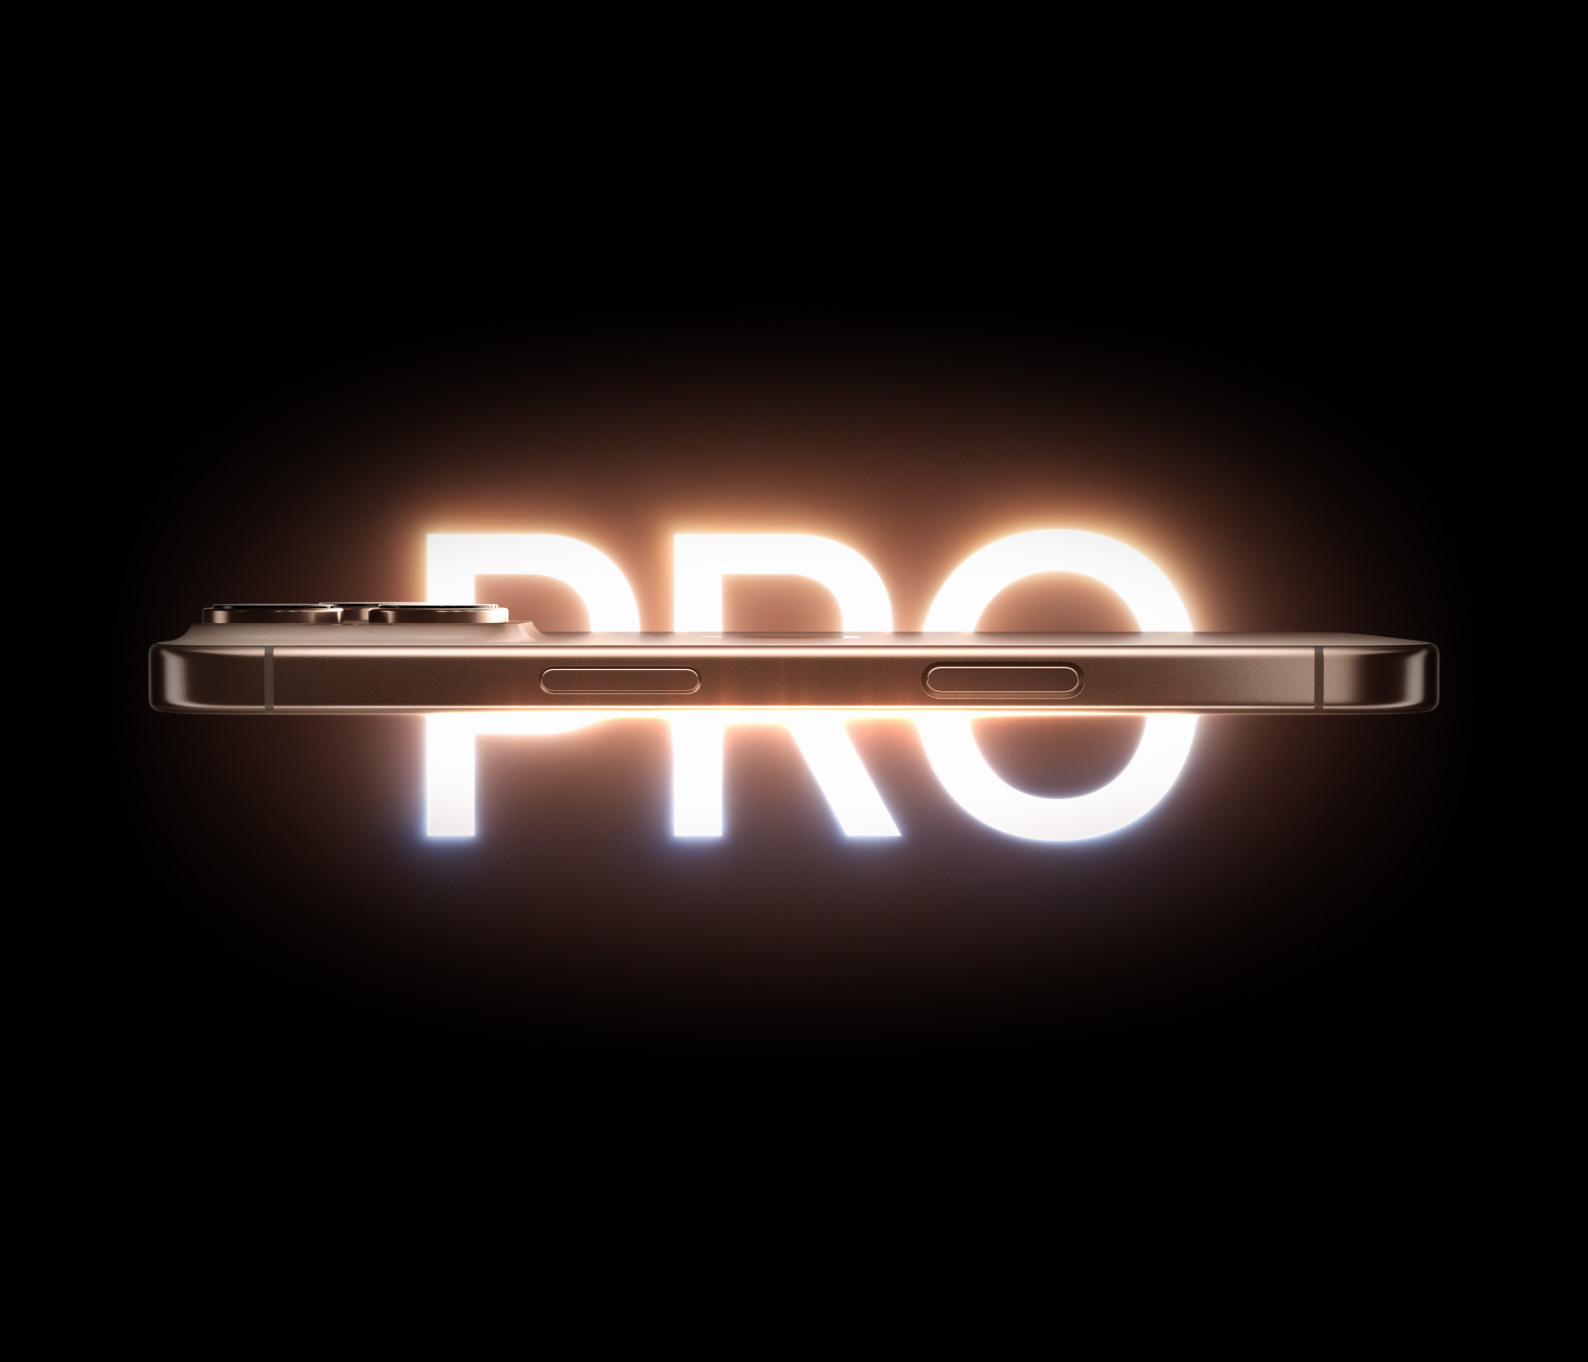
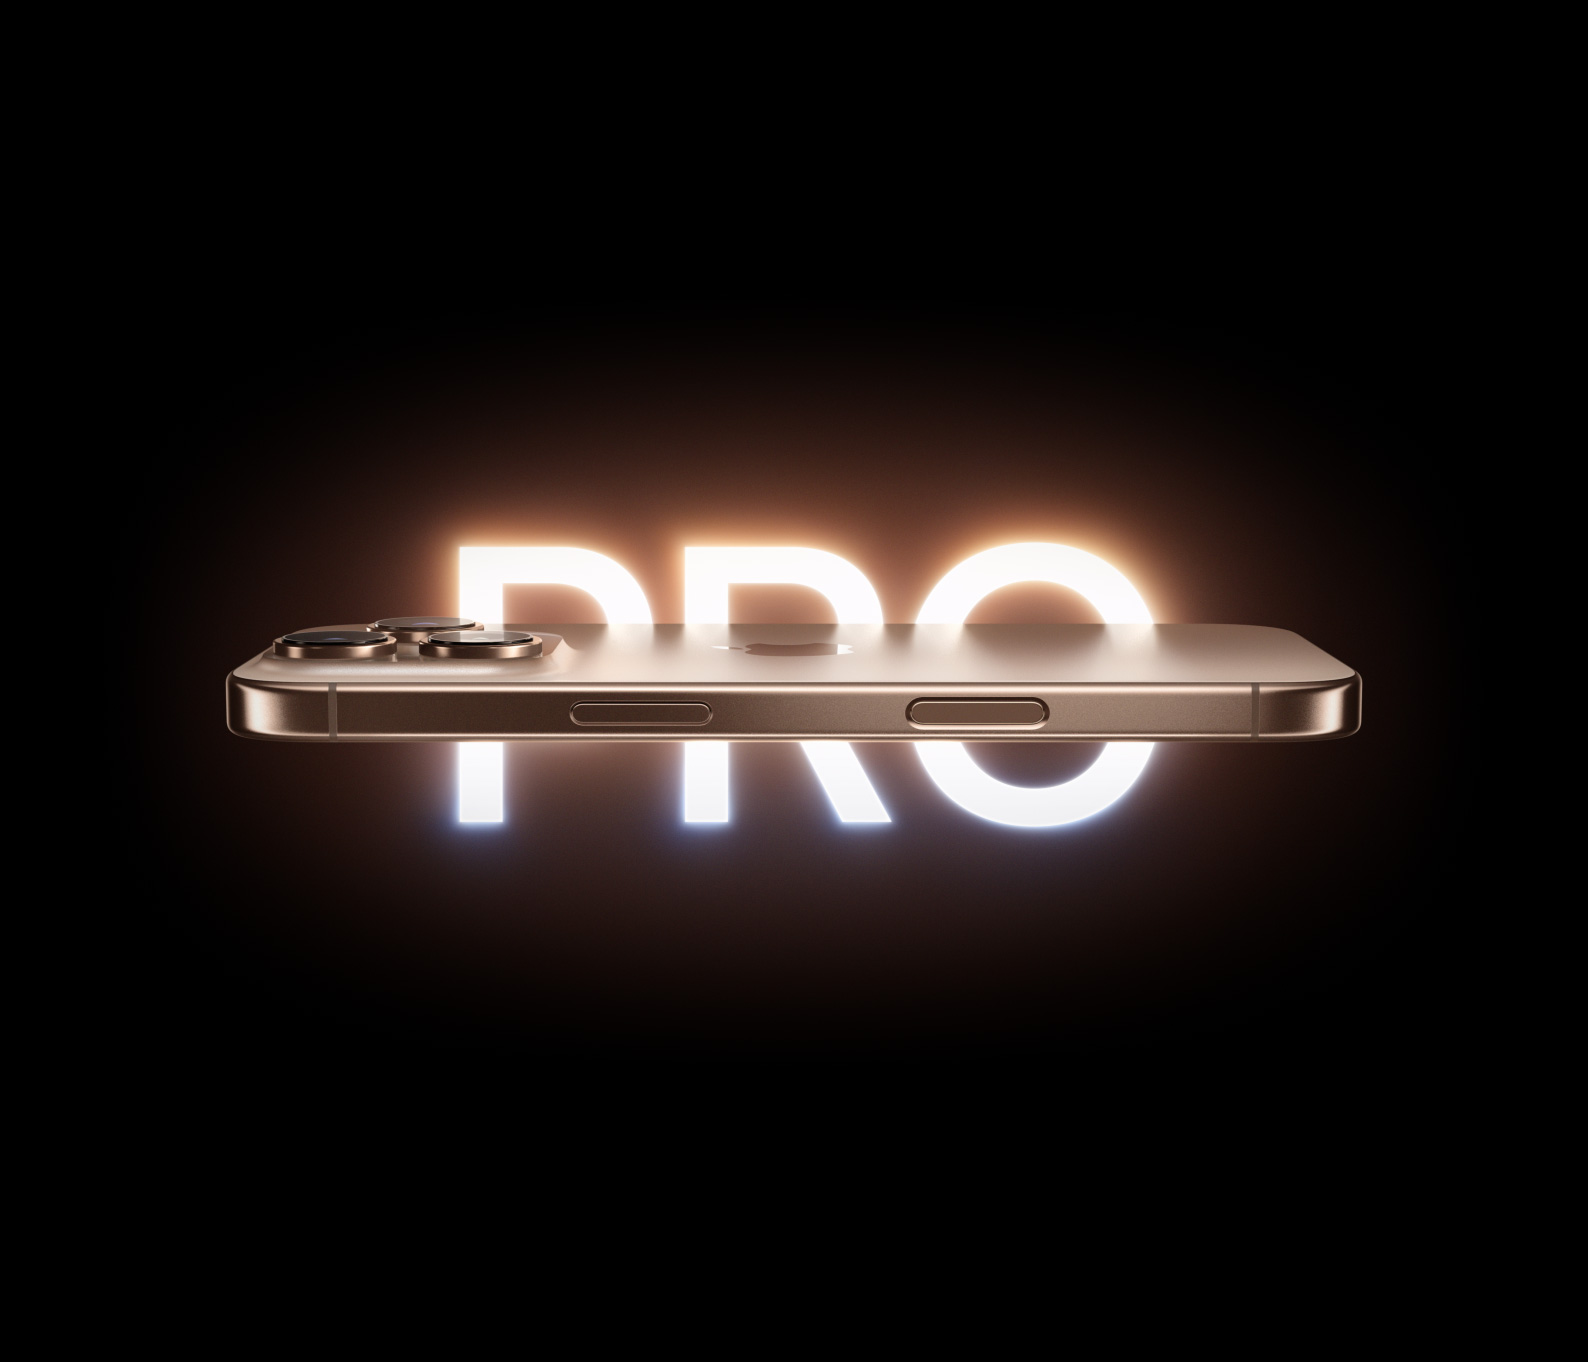
feat: hero section for product's detail

Changed region(s): [[0.0926, 0.3392, 0.9257, 0.6476]]

diff --git a/client/src/components/product/heroProduct.tsx b/client/src/components/product/heroProduct.tsx
@@ -1,0 +1,255 @@
+import type { ProductHeroProps } from "../../types/interface";
+import { useState, useEffect } from "react";
+
+const IPhone16 = ({
+  heroImg,
+  textImg,
+  heroImgSmall,
+  textImgSmall,
+}: {
+  heroImg: string;
+  textImg: string;
+  heroImgSmall: string;
+  textImgSmall: string;
+}) => {
+  const [heroImgSrc, setHeroImgSrc] = useState(
+    window.innerWidth > 640 ? heroImg : heroImgSmall
+  );
+  const [textImgSrc, setTextImgSrc] = useState(
+    window.innerWidth > 640 ? textImg : textImgSmall
+  );
+
+  useEffect(() => {
+    const handleResize = () => {
+      setHeroImgSrc(window.innerWidth > 640 ? heroImg : heroImgSmall);
+      setTextImgSrc(window.innerWidth > 640 ? textImg : textImgSmall);
+    };
+    window.addEventListener("resize", handleResize);
+    return () => {
+      window.removeEventListener("resize", handleResize);
+    };
+  }, []);
+
+  return (
+    <div
+      className="flex flex-col items-center justify-center w-full min-h-screen relative overflow-hidden"
+      style={{
+        backgroundImage:
+          "linear-gradient(rgb(12, 18, 71), rgb(40, 51, 125) 28%, rgb(80, 93, 173) 46%, rgb(125, 142, 209) 60%, rgb(174, 188, 230) 75%, rgb(239, 236, 255) 90%, rgb(255, 255, 255))",
+      }}
+    >
+      <div className="flex flex-col items-center justify-start w-full h-full relative pt-16 md:pt-24">
+        <div className="w-full flex justify-center">
+          <h1 className="text-2xl md:text-3xl lg:text-4xl text-white font-semibold absolute top-[-20px] z-10">
+            iPhone 16
+          </h1>
+
+          <img
+            src={textImgSrc}
+            alt="iPhone 16 Text"
+            className="w-[80%] sm:w-[70%] md:w-[60%] lg:w-[50%] max-w-[700px] absolute top-[-10px] z-10"
+          />
+
+          <img
+            src={heroImgSrc}
+            alt="iPhone 16 Hero"
+            className="w-[90%] sm:w-[85%] md:w-[75%] lg:w-[65%] max-w-[1200px] relative z-0"
+          />
+        </div>
+
+        <div className="flex flex-col items-center space-y-4 md:space-y-6 mt-4 md:mt-8">
+          <button className="bg-blue-600 hover:bg-blue-700 text-white px-6 py-3 rounded-full text-lg transition-colors">
+            Buy Now
+          </button>
+          <p className="text-sm md:text-base text-gray-800 font-semibold text-center">
+            From $799 or $33.29/month. for 24 months
+          </p>
+        </div>
+      </div>
+    </div>
+  );
+};
+
+const IPhone16e = ({
+  heroImg,
+  heroImgSmall,
+}: {
+  heroImg: string;
+  heroImgSmall: string;
+}) => {
+  const [heroImgSrc, setHeroImgSrc] = useState(
+    window.innerWidth > 640 ? heroImg : heroImgSmall
+  );
+
+  useEffect(() => {
+    const handleResize = () => {
+      setHeroImgSrc(window.innerWidth > 640 ? heroImg : heroImgSmall);
+    };
+    window.addEventListener("resize", handleResize);
+    return () => {
+      window.removeEventListener("resize", handleResize);
+    };
+  }, []);
+
+  return (
+    <div className="flex flex-col items-center justify-center w-full min-h-screen relative overflow-hidden">
+      <div className="flex flex-col items-center w-full h-full ">
+        <div className="mb-4 md:mb-8 text-center">
+          <h1 className="text-2xl md:text-3xl lg:text-4xl text-black font-semibold">
+            iPhone 16e
+          </h1>
+          {window.innerWidth < 640 ? (
+            <>
+              <h1 className="text-5xl lg:text-6xl text-black font-semibold">
+                Latest iPhone.
+              </h1>
+              <h1 className="text-5xl lg:text-6xl text-black font-semibold">
+                Greatest price.
+              </h1>
+            </>
+          ) : (
+            <h1 className="text-5xl lg:text-6xl text-black font-semibold">
+              Latest iPhone. Greatest price.
+            </h1>
+          )}
+          <span className="text-2xl font-semibold bg-gradient-to-r from-purple-500 via-pink-500 to-pink-600 bg-clip-text text-transparent block mt-4">
+            Built for Apple Intelligence.
+          </span>
+        </div>
+
+        {/* Mobile view ordering */}
+        <div className="flex flex-col items-center w-full sm:hidden">
+          {/* Buttons first on mobile */}
+          <div className="flex flex-col items-center space-y-4 mb-6 order-1">
+            <button className="bg-blue-600 hover:bg-blue-700 text-white px-6 py-3 rounded-full text-lg transition-colors">
+              Buy Now
+            </button>
+            <p className="text-sm text-gray-800 font-semibold text-center">
+              From $599 or $24.95/month. for 24 months
+            </p>
+          </div>
+
+          {/* Image second on mobile */}
+          <div className="w-full flex justify-center order-2">
+            <img
+              src={heroImgSrc}
+              alt="iPhone 16e Hero"
+              className="w-[90%] max-w-[1200px] my-4"
+            />
+          </div>
+        </div>
+
+        {/* Desktop view ordering */}
+        <div className="hidden sm:flex flex-col items-center w-full">
+          {/* Image first on desktop */}
+          <div className="w-full flex justify-center mb-6">
+            <img
+              src={heroImgSrc}
+              alt="iPhone 16e Hero"
+              className="w-[90%] max-w-[1200px]"
+            />
+          </div>
+
+          {/* Buttons second on desktop */}
+          <div className="flex flex-col items-center space-y-4">
+            <button className="bg-blue-600 hover:bg-blue-700 text-white px-6 py-3 rounded-full text-lg transition-colors">
+              Buy Now
+            </button>
+            <p className="text-md text-gray-800 font-semibold text-center">
+              From $599 or $24.95/month. for 24 months
+            </p>
+          </div>
+        </div>
+      </div>
+    </div>
+  );
+};
+
+const IPhone16Pro = ({
+  heroImg,
+  textImg,
+  heroImgSmall,
+  textImgSmall,
+}: {
+  heroImg: string;
+  textImg: string;
+  heroImgSmall: string;
+  textImgSmall: string;
+}) => {
+  const [heroImgSrc, setHeroImgSrc] = useState(
+    window.innerWidth > 640 ? heroImg : heroImgSmall
+  );
+  const [textImgSrc, setTextImgSrc] = useState(
+    window.innerWidth > 640 ? textImg : textImgSmall
+  );
+
+  useEffect(() => {
+    const handleResize = () => {
+      setHeroImgSrc(window.innerWidth > 640 ? heroImg : heroImgSmall);
+      setTextImgSrc(window.innerWidth > 640 ? textImg : textImgSmall);
+    };
+    window.addEventListener("resize", handleResize);
+    return () => {
+      window.removeEventListener("resize", handleResize);
+    };
+  }, []);
+  return (
+  <div className="flex flex-col items-center justify-center w-full min-h-screen bg-black text-white relative overflow-hidden">
+    <div className="w-full flex flex-col justify-center items-center">
+      <div className="relative w-[90%] sm:w-[85%] md:w-[75%] lg:w-[65%] max-w-[1200px] mt-16">
+        <img
+          src={heroImgSrc}
+          alt="iPhone 16 Pro Hero"
+          className="w-full h-[600px] sm:h-[500px] md:h-[550px] lg:h-[600px] object-cover"
+        />
+        <h1 className="absolute top-0 sm:top-[5%] md:top-[6%] lg:top-[7%] left-1/2 transform -translate-x-1/2 text-xl sm:text-2xl md:text-3xl lg:text-4xl text-white font-semibold z-20">
+          iPhone 16 Pro
+        </h1>
+
+        <img
+          src={textImgSrc}
+          alt="iPhone 16 Pro Text"
+          className="absolute top-0 sm:top-[6%] md:top-[8%] lg:top-[10%] left-1/2 transform -translate-x-1/2 w-[70%] sm:w-[60%] md:w-[50%] lg:w-[45%] max-w-[600px] z-10 h-[120px] sm:h-[140px] md:h-[160px] lg:h-[170px] object-cover"
+        />
+      </div>
+    </div>
+
+    <div className="flex flex-col items-center space-y-4 md:space-y-6 mt-4 md:mt-8">
+      <button className="bg-blue-600 hover:bg-blue-700 text-white px-6 py-3 rounded-full text-lg transition-colors">
+        Buy Now
+      </button>
+      <p className="text-sm md:text-base text-white font-semibold text-center">
+        From $999 or $41.62/month. for 24 months
+      </p>
+    </div>
+  </div>
+);
+};
+
+const HeroProduct = ({ props }: { props: ProductHeroProps }) => {
+  return (
+    <>
+      {props.id === 1 && (
+        <IPhone16
+          heroImg={props.hero}
+          textImg={props.text || ""}
+          heroImgSmall={props.small}
+          textImgSmall={props.textSmall || ""}
+        />
+      )}
+      {props.id === 2 && (
+        <IPhone16e heroImg={props.hero} heroImgSmall={props.small} />
+      )}
+      {props.id === 3 && (
+        <IPhone16Pro
+          heroImg={props.hero}
+          textImg={props.text || ""}
+          heroImgSmall={props.small}
+          textImgSmall={props.textSmall || ""}
+        />
+      )}
+    </>
+  );
+};
+
+export default HeroProduct;

diff --git a/client/src/utils/productIndex.ts b/client/src/utils/productIndex.ts
@@ -2,14 +2,14 @@
 
 import hero16 from "../assets/product/hero/ip16/hero.png";
 import hero16Text from "../assets/product/hero/ip16/hero_text.png";
-import hero16Small from "../assets/product/hero/ip16/hero_small.png";
+import hero16Small from "../assets/product/hero/ip16/hero_xsmall.png";
 import hero16TextSmall from "../assets/product/hero/ip16/hero_text_small.png";
-import hero16Pro from "../assets/product/hero/ip16pro/hero.png";
+import hero16Pro from "../assets/product/hero/ip16pro/hero.jpg";
 import hero16ProText from "../assets/product/hero/ip16pro/hero_text.png";
-import hero16ProSmall from "../assets/product/hero/ip16pro/hero_small.png";
+import hero16ProSmall from "../assets/product/hero/ip16pro/hero_small.jpg";
 import hero16ProTextSmall from "../assets/product/hero/ip16pro/hero_text_small.png";
-import hero16e from "../assets/product/hero/ip16e/hero.png";
-import hero16eSmall from "../assets/product/hero/ip16e/hero_small.png";
+import hero16e from "../assets/product/hero/ip16e/hero.jpg";
+import hero16eSmall from "../assets/product/hero/ip16e/hero_small.jpg";
 
 export const productHeroImages = {
   ip16: {

diff --git a/client/src/pages/productPage.tsx b/client/src/pages/productPage.tsx
@@ -1,13 +1,23 @@
-import { useParams } from 'react-router-dom';
+import { useParams } from "react-router-dom";
+
+import { productDetails } from "../utils/productConstants";
+import Navbar from "../components/navbar";
+import HeroProduct from "../components/product/heroProduct";
 
 const ProductPage = () => {
-    const { productId } = useParams<{ productId: string }>();
-    return (
-        <div>
-            <h1>Product Page</h1>
-            <p>This is the product page where you can find details about our products.</p>
-        </div>
-    )
-}
+  const { productId } = useParams<{ productId: string }>();
+  const productData = productDetails.find(
+    (product) => product.id === parseInt(productId || "0")
+  );
 
-export default ProductPage; 
+  return (
+    <div className="max-w-[2560px]">
+      <Navbar />
+      {productData?.hero && (
+        <HeroProduct props={{ ...productData.hero, id: parseInt(productId || "0") }} />
+      )}
+    </div>
+  );
+};
+
+export default ProductPage;

diff --git a/client/src/components/title.tsx b/client/src/components/title.tsx
@@ -1,8 +1,8 @@
 const Title = ({ text }: { text: string }) => {
     return (
-        <div className="font-semibold text-5xl max-lg:text-4xl max-md:text-3xl md:pb-20 pb-2"> 
+        <h1 className="font-semibold text-5xl max-lg:text-4xl max-md:text-3xl md:pb-20 pb-2"> 
             {text}
-        </div>
+        </h1>
     )
 }
 

diff --git a/client/src/types/interface.ts b/client/src/types/interface.ts
@@ -35,3 +35,12 @@ export interface SlideProps {
   img: string;
   color: string
 }
+
+export interface ProductHeroProps {
+    id: number;
+    hero: string;
+    text?: string;
+    small: string;
+    textSmall?: string;
+}
+
